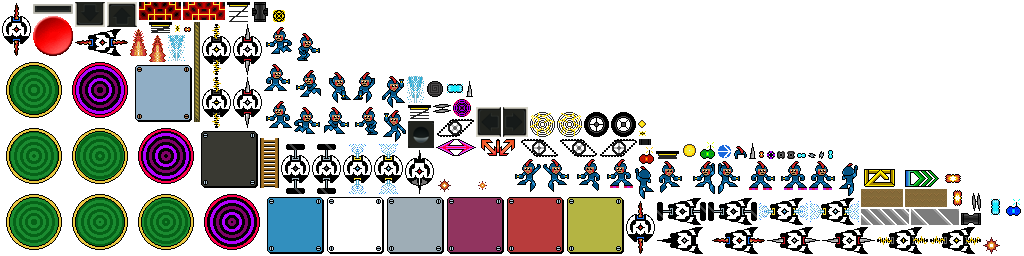
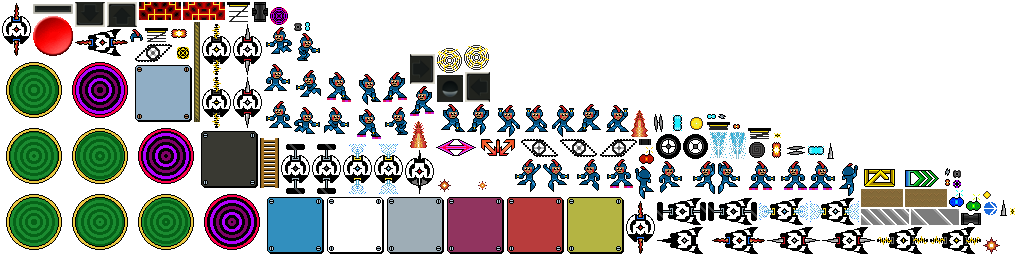
enabled lookup and down while hover and added stand and hover lookup and down sprites

diff --git a/core/src/com/udacity/gamedev/gigagal/util/Constants.java b/core/src/com/udacity/gamedev/gigagal/util/Constants.java
@@ -12,7 +12,7 @@ public final class Constants {
     private Constants() {}
 
     // World/Camera
-    public static final Color BACKGROUND_COLOR = Color.DARK_GRAY;
+    public static final Color BACKGROUND_COLOR = Color.SLATE;
     public static final float WORLD_SIZE = 160;
     public static final float KILL_PLANE = -200;
     public static final float GRAVITY = 10;
@@ -59,10 +59,10 @@ public final class Constants {
     public static final String RECOIL_LEFT = "recoil-left";
     public static final String FALL_RIGHT = "fall-right";
     public static final String FALL_LEFT = "fall-left";
-    public static final String LOOKUP_RIGHT = "lookup-right";
-    public static final String LOOKUP_LEFT = "lookup-left";
-    public static final String LOOKDOWN_RIGHT = "lookdown-right";
-    public static final String LOOKDOWN_LEFT = "lookdown-left";
+    public static final String LOOKUP_RIGHT = "stand-lookup-right";
+    public static final String LOOKUP_LEFT = "stand-lookup-left";
+    public static final String LOOKDOWN_RIGHT = "stand-lookdown-right";
+    public static final String LOOKDOWN_LEFT = "stand-lookdown-left";
     public static final String RICOCHET_RIGHT = "ricochet-right";
     public static final String RICOCHET_LEFT = "ricochet-left";
     public static final float RICOCHET_FRAME_DURATION = 0.05f;
@@ -286,7 +286,7 @@ public final class Constants {
     public static final String PORTAL_SPRITE_6 = "portal-6";
 
     // Ammo
-    public static final float CHARGE_DURATION = 0.75f;
+    public static final float CHARGE_DURATION = 1;
     public static final float AMMO_MAX_SPEED = 500;
     public static final float AMMO_NORMAL_SPEED = 375;
     public static final int AMMO_STANDARD_DAMAGE = 10;

diff --git a/core/src/com/udacity/gamedev/gigagal/entities/GigaGal.java b/core/src/com/udacity/gamedev/gigagal/entities/GigaGal.java
@@ -153,6 +153,7 @@ public class GigaGal implements Physical {
                 enableJump();
                 enableRicochet();
             } else if (aerialState == AerialState.HOVERING) {
+                enableLook();
                 enableHover();
                 enableRicochet();
             } else if (aerialState == AerialState.RICOCHETING) {
@@ -656,7 +657,7 @@ public class GigaGal implements Physical {
         if (canLook) {
             if (looking && climbDirection == null) {
                 canStride = false;
-                canHover = false;
+              //  canHover = false;
                 if (up) {
                     lookDirection = Direction.UP;
                     if (chaseCamPosition.y < position.y) {

diff --git a/core/src/com/udacity/gamedev/gigagal/overlays/GaugeHud.java b/core/src/com/udacity/gamedev/gigagal/overlays/GaugeHud.java
@@ -62,7 +62,7 @@ public final class GaugeHud {
         renderer.rect(viewport.getWorldWidth() / 3, viewport.getWorldHeight() - Constants.HUD_MARGIN, (gigaGal.getTurbo() / Constants.MAX_TURBO) * viewport.getWorldWidth() / 3, viewport.getScreenHeight() / 25);
 
         // ammo
-        if (gigaGal.getChargeTimeSeconds() >  Constants.CHARGE_DURATION / 6) {
+        if (gigaGal.getChargeTimeSeconds() >  Constants.CHARGE_DURATION / 4) {
             renderer.setColor(Constants.AMMO_CHARGED_COLOR);
         } else {
             renderer.setColor(Constants.AMMO_NORMAL_COLOR);

diff --git a/core/src/com/udacity/gamedev/gigagal/entities/Ammo.java b/core/src/com/udacity/gamedev/gigagal/entities/Ammo.java
@@ -210,7 +210,7 @@ public final class Ammo extends Indestructible {
         if (ammoIntensity == AmmoIntensity.BLAST) {
             ammoCenter.set(Constants.BLAST_CENTER);
         } else if (ammoIntensity == AmmoIntensity.CHARGE_SHOT) {
-            scale += ((2 * Constants.CHARGE_DURATION) / 3);
+            scale += (Constants.CHARGE_DURATION / 3);
             ammoCenter.set(Constants.SHOT_CENTER);
             ammoCenter.scl(scale);
         } else {
